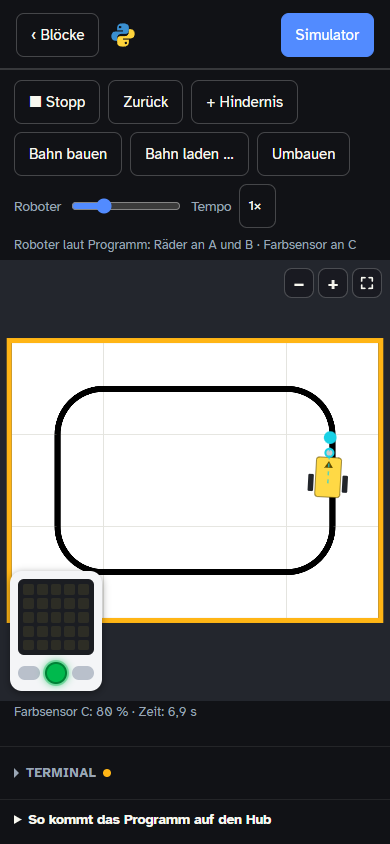
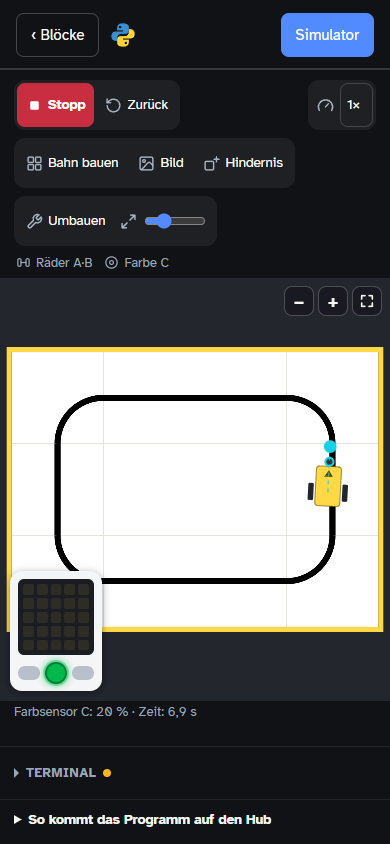
feat(sim): Leiste des Simulators in Gruppen, jeder Knopf mit Zeichen
- Die Knöpfe stehen in vier Gruppen: laufen lassen (Start/Stopp, Zurück,
  Kraftsensor), Tempo, Bahn (Bahn bauen, Bild, Hindernis) und Roboter
  (Umbauen, Größe). Jeder hat ein graues Zeichen vor dem Wort; Start
  wird beim Laufen zum roten Stopp.
- Statt des langen Satzes »Roboter laut Programm: …« stehen kurze
  Schildchen mit Zeichen da (Räder A·B, Farbe C, D, Abstand E …), die
  ausführliche Fassung im Tooltip.
- Auch die Leisten für »Bahn bauen« und »Umbauen« sind so geordnet.
- »Bahn laden …« heißt jetzt »Bild«.

Claude-Session: https://claude.ai/code/session_01PviZb3Q8FPaRScTPKtzbYN

diff --git a/index.html b/index.html
@@ -149,45 +149,83 @@
     <div class="warnings hidden" id="warnings"></div>
     <div class="code-scroll"><div class="code-lines" id="codeLines"></div></div>
     <section class="sim hidden" id="sim" aria-label="Simulator">
+      <!-- Die Leiste des Simulators, in Gruppen: laufen lassen · Tempo · Bahn · Roboter. Jeder Knopf mit Zeichen und Wort. -->
       <div class="sim-bar">
-        <button class="btn primary" id="simRun" type="button">▶ Start</button>
-        <button class="btn" id="simReset" type="button" title="Stellt den Roboter dorthin zurück, wo er beim Start stand">Zurück</button>
-        <button class="btn" id="simObstacle" type="button" title="Hindernis vor den Roboter stellen – Doppelklick räumt es wieder weg">+ Hindernis</button>
-        <button class="btn" id="simTrack" type="button" aria-pressed="false" title="Die Bahn aus Platten zusammenlegen, wie bei RoboCup Junior Rescue Line – mit grünen Punkten an den Kreuzungen">Bahn bauen</button>
-        <button class="btn" id="simImage" type="button" title="Ein Bild der Bahn laden, von oben gesehen">Bahn laden …</button>
-        <button class="btn" id="simBuild" type="button" aria-pressed="false" title="Roboter groß zeigen und seine Sensoren versetzen – mit Raster und Symmetrie">Umbauen</button>
-        <label class="sim-scale" title="Wie groß der Roboter auf der Bahn ist">Roboter <input type="range" id="simScale" min="0.3" max="3" step="0.05" value="1"></label>
-        <label class="sim-scale sim-tempo" title="Zeitlupe und Zeitraffer">Tempo
-          <select class="btn" id="simSpeed"><option value="0.25">¼×</option><option value="0.5">½×</option><option value="1" selected>1×</option><option value="2">2×</option><option value="4">4×</option></select>
+        <div class="sim-group sim-g-run">
+          <button class="btn primary" id="simRun" type="button">
+            <svg class="ico i-play" viewBox="0 0 24 24" aria-hidden="true"><path d="M7 4.5v15l12.500-7.500z" fill="currentColor" stroke="none"/></svg>
+            <svg class="ico i-stop" viewBox="0 0 24 24" aria-hidden="true"><rect x="6" y="6" width="12" height="12" rx="2" fill="currentColor" stroke="none"/></svg>
+            <span>Start</span></button>
+          <button class="btn" id="simReset" type="button" title="Roboter zurück an den Start">
+            <svg class="ico" viewBox="0 0 24 24" aria-hidden="true"><path d="M3 12a9 9 0 1 0 2.600-6.300L3 8"/><path d="M3 3v5h5"/></svg>
+            <span>Zurück</span></button>
+          <!-- je Kraftsensor des Programms ein Knopf zum Drücken (entsteht in view.ts) -->
+          <span class="sim-force" id="simForce"></span>
+        </div>
+        <label class="sim-group sim-g-tempo" title="Tempo: Zeitlupe und Zeitraffer">
+          <svg class="ico" viewBox="0 0 24 24" aria-hidden="true"><path d="M3.300 19a10 10 0 1 1 17.400 0"/><path d="m12 14 4-4.500"/></svg>
+          <select class="btn" id="simSpeed" aria-label="Tempo"><option value="0.25">¼×</option><option value="0.5">½×</option><option value="1" selected>1×</option><option value="2">2×</option><option value="4">4×</option></select>
         </label>
-        <!-- je Kraftsensor des Programms ein Knopf zum Drücken -->
-        <span class="sim-force" id="simForce"></span>
+        <div class="sim-group sim-g-track">
+          <button class="btn" id="simTrack" type="button" aria-pressed="false" title="Bahn aus Platten bauen, wie bei Rescue Line">
+            <svg class="ico" viewBox="0 0 24 24" aria-hidden="true"><rect x="3" y="3" width="7.500" height="7.500" rx="1.500"/><rect x="13.500" y="3" width="7.500" height="7.500" rx="1.500"/><rect x="3" y="13.500" width="7.500" height="7.500" rx="1.500"/><rect x="13.500" y="13.500" width="7.500" height="7.500" rx="1.500"/></svg>
+            <span>Bahn bauen</span></button>
+          <button class="btn" id="simImage" type="button" title="Ein Bild als Bahn laden">
+            <svg class="ico" viewBox="0 0 24 24" aria-hidden="true"><rect x="3" y="3" width="18" height="18" rx="2.500"/><circle cx="8.500" cy="8.500" r="1.800"/><path d="m21 15-4.300-4.300a1.500 1.500 0 0 0-2.100 0L5 20.500"/></svg>
+            <span>Bild</span></button>
+          <button class="btn" id="simObstacle" type="button" title="Hindernis vor den Roboter stellen">
+            <svg class="ico" viewBox="0 0 24 24" aria-hidden="true"><rect x="3" y="9" width="12" height="12" rx="2"/><path d="M19 2.500v7M15.500 6h7"/></svg>
+            <span>Hindernis</span></button>
+        </div>
+        <div class="sim-group sim-g-robot">
+          <button class="btn" id="simBuild" type="button" aria-pressed="false" title="Roboter umbauen: Sensoren versetzen und drehen">
+            <svg class="ico" viewBox="0 0 24 24" aria-hidden="true"><path d="M14.700 6.300a1 1 0 0 0 0 1.400l1.600 1.600a1 1 0 0 0 1.400 0l3.770-3.770a6 6 0 0 1-7.940 7.940l-6.910 6.910a2.120 2.120 0 0 1-3-3l6.910-6.910a6 6 0 0 1 7.940-7.940z"/></svg>
+            <span>Umbauen</span></button>
+          <label class="sim-scale" title="Größe des Roboters auf der Bahn">
+            <svg class="ico" viewBox="0 0 24 24" aria-hidden="true"><path d="M15 3h6v6M9 21H3v-6M21 3l-7 7M3 21l7-7"/></svg>
+            <input type="range" id="simScale" min="0.3" max="3" step="0.05" value="1" aria-label="Größe des Roboters"></label>
+        </div>
         <input type="file" id="simFile" accept="image/*" class="hidden">
       </div>
       <!-- nur bei »Bahn bauen«: Platten zur Auswahl (die Knöpfe entstehen in trackEditor.ts), Größe, Vorlagen, Datei -->
       <div class="sim-bar sim-track-bar">
         <div class="sim-tiles" id="simTiles" role="radiogroup" aria-label="Platte oder Werkzeug wählen"></div>
-        <span class="sim-step" title="Wie viele Platten die Bahn breit ist">Spalten
-          <button class="btn" id="simColsLess" type="button" aria-label="eine Spalte weniger">−</button><output id="simCols">4</output><button class="btn" id="simColsMore" type="button" aria-label="eine Spalte mehr">+</button>
-        </span>
-        <span class="sim-step" title="Wie viele Platten die Bahn hoch ist">Zeilen
-          <button class="btn" id="simRowsLess" type="button" aria-label="eine Zeile weniger">−</button><output id="simRows">3</output><button class="btn" id="simRowsMore" type="button" aria-label="eine Zeile mehr">+</button>
-        </span>
-        <select class="btn" id="simTemplate" aria-label="Vorlage laden"><option value="">Vorlage …</option></select>
-        <button class="btn" id="simTrackSave" type="button" title="Die Bahn als Datei speichern, zum Weitergeben">Speichern</button>
-        <button class="btn" id="simTrackOpen" type="button" title="Eine gespeicherte Bahn öffnen">Öffnen …</button>
+        <div class="sim-group">
+          <span class="sim-step" title="Spalten: wie viele Platten die Bahn breit ist">
+            <svg class="ico" viewBox="0 0 24 24" aria-hidden="true"><path d="M3 12h18M7 8l-4 4 4 4M17 8l4 4-4 4"/></svg>
+            <button class="btn" id="simColsLess" type="button" aria-label="eine Spalte weniger">−</button><output id="simCols">4</output><button class="btn" id="simColsMore" type="button" aria-label="eine Spalte mehr">+</button>
+          </span>
+          <span class="sim-step" title="Zeilen: wie viele Platten die Bahn hoch ist">
+            <svg class="ico" viewBox="0 0 24 24" aria-hidden="true"><path d="M12 3v18M8 7l4-4 4 4M8 17l4 4 4-4"/></svg>
+            <button class="btn" id="simRowsLess" type="button" aria-label="eine Zeile weniger">−</button><output id="simRows">3</output><button class="btn" id="simRowsMore" type="button" aria-label="eine Zeile mehr">+</button>
+          </span>
+        </div>
+        <div class="sim-group">
+          <select class="btn" id="simTemplate" aria-label="Vorlage laden"><option value="">Vorlage …</option></select>
+          <button class="btn" id="simTrackSave" type="button" title="Bahn als Datei speichern">
+            <svg class="ico" viewBox="0 0 24 24" aria-hidden="true"><path d="M12 3v12M7 10l5 5 5-5M4 21h16"/></svg>
+            <span>Speichern</span></button>
+          <button class="btn" id="simTrackOpen" type="button" title="Gespeicherte Bahn öffnen">
+            <svg class="ico" viewBox="0 0 24 24" aria-hidden="true"><path d="M3 7a2 2 0 0 1 2-2h4l2 2.500h8a2 2 0 0 1 2 2V18a2 2 0 0 1-2 2H5a2 2 0 0 1-2-2z"/></svg>
+            <span>Öffnen</span></button>
+        </div>
         <input type="file" id="simTrackFile" accept=".json,application/json" class="hidden">
         <p class="sim-keys sim-track-hint" id="simTrackHint" role="status"></p>
       </div>
       <!-- nur beim Umbauen: Raster (Abstand der LEGO-Noppen) und Symmetrie -->
       <div class="sim-bar sim-build-bar">
-        <label class="sim-check" title="Sensoren rasten im Abstand der LEGO-Noppen ein (8 mm) und drehen in Schritten von 15 Grad"><input type="checkbox" id="simGrid" checked> Raster</label>
-        <label class="sim-check" title="Der Sensor auf der anderen Seite wandert und dreht spiegelbildlich mit"><input type="checkbox" id="simSymmetry" checked> Symmetrie</label>
-        <button class="btn" id="simMountsReset" type="button" title="Setzt alle Sensoren an ihren üblichen Platz zurück, ungedreht">Alle zurücksetzen</button>
+        <div class="sim-group">
+          <label class="sim-check" title="Einrasten: 8 mm (eine Noppe) und 15 Grad"><input type="checkbox" id="simGrid" checked> Raster</label>
+          <label class="sim-check" title="Der Sensor gegenüber wandert und dreht spiegelbildlich mit"><input type="checkbox" id="simSymmetry" checked> Symmetrie</label>
+          <button class="btn" id="simMountsReset" type="button" title="Alle Sensoren zurück an ihren üblichen Platz">
+            <svg class="ico" viewBox="0 0 24 24" aria-hidden="true"><path d="M3 12a9 9 0 1 0 2.600-6.300L3 8"/><path d="M3 3v5h5"/></svg>
+            <span>Zurücksetzen</span></button>
+        </div>
         <!-- nur mit Tastatur: die Zusatztasten, wie in Zeichenprogrammen üblich -->
         <p class="sim-keys"><kbd>Alt</kbd> frei · <kbd>Umschalt</kbd> gerade, 45° · <kbd>Strg</kbd> einzeln · <kbd>R</kbd> dreht</p>
       </div>
-      <p class="sim-info" id="simInfo"></p>
+      <!-- was der Roboter laut Programm hat: je Teil ein Schildchen (entsteht in view.ts) -->
+      <div class="sim-chips" id="simInfo" role="status" aria-label="Roboter laut Programm"></div>
       <div class="sim-stage">
         <canvas id="simCanvas"></canvas>
         <!-- die Bahn heranholen und wieder ganz zeigen (auch: Mausrad, zwei Finger) -->

diff --git a/src/style.css b/src/style.css
@@ -183,46 +183,64 @@ aside.code{color-scheme:dark;flex:0 0 var(--code-w,clamp(330px,38vw,600px));min-
 aside.code.sim-on .code-scroll,aside.code.sim-on .warnings,aside.code.sim-on .code-zoom,aside.code.sim-on #btnCopy{display:none!important}
 .code-head .btn[aria-pressed="true"]{background:var(--accent);border-color:var(--accent);color:#fff}
 .sim{flex:1 1 auto;min-height:0;display:flex;flex-direction:column}
+/* Die Leiste: Knöpfe in Gruppen (laufen lassen · Tempo · Bahn · Roboter), jede Gruppe ein flaches Feld; die
+   Knöpfe darin ohne Rahmen, mit einem grauen Zeichen vor dem Wort. */
 .sim-bar{display:flex;flex-wrap:wrap;align-items:center;gap:8px;padding:10px 14px 6px}
-.sim-bar .btn{background:transparent;border-color:rgba(255,255,255,.22);color:var(--code-ink)}
-.sim-bar .btn:hover{border-color:#fff}
-.sim-bar .btn.primary{background:#00B94D;border-color:#00B94D;color:#fff}
-.sim-scale{display:flex;align-items:center;gap:8px;font-size:13.5px;color:#9AA6B5}
-.sim-scale input{width:110px;accent-color:var(--accent)}
-.sim-bar select.btn{padding:5px 8px;background:var(--code-bg)}
+.sim-group{display:flex;align-items:center;gap:2px;padding:3px;border-radius:11px;background:rgba(255,255,255,.06)}
+.sim-g-tempo{margin-left:auto;padding-left:9px;gap:6px;cursor:pointer}
+.sim-bar .ico{width:17px;height:17px;flex:0 0 auto;fill:none;stroke:currentColor;stroke-width:2;stroke-linecap:round;stroke-linejoin:round;color:#A9B4C3}
+.sim-bar .btn{display:inline-flex;align-items:center;gap:5px;padding:6px 8px;border-radius:8px;border-color:transparent;background:transparent;color:var(--code-ink);font-size:13.5px;line-height:1.2}
+.sim-bar .btn:hover{background:rgba(255,255,255,.11);border-color:transparent}
+.sim-bar .btn:hover .ico{color:#fff}
+.sim-bar .btn.primary{background:#00B94D;color:#fff;font-weight:700}
+.sim-bar .btn.primary:hover{background:#00CC56}
+.sim-bar .btn.primary .ico,.sim-bar .btn[aria-pressed="true"] .ico{color:#fff}
+/* Start und Stopp: derselbe Knopf, das Zeichen wechselt */
+#simRun .i-stop,#simRun.running .i-play{display:none}
+#simRun.running .i-stop{display:block}
+#simRun.running{background:rgba(218,48,65,.9)}
+#simRun.running:hover{background:#DA3041}
+.sim-scale{display:flex;align-items:center;gap:5px;padding:0 6px 0 4px}
+.sim-scale input{width:62px;accent-color:var(--accent)}
+.sim-bar select.btn{padding:5px 6px;background:transparent;border-color:rgba(255,255,255,.16)}
+.sim-bar select.btn option{background:var(--code-bg)}
 .sim.tracking .sim-stage canvas{cursor:pointer}
 .sim-bar .btn[aria-pressed="true"]{background:var(--accent);border-color:var(--accent);color:#fff}
 .sim-force{display:contents}
-.sim-force .btn{border-color:#DA3041}
-.sim-force .btn:active{background:#DA3041}
+.sim-force .btn .ico{color:#FF8A95}
+.sim-force .btn.on,.sim-force .btn:active{background:#DA3041}
+.sim-force .btn.on .ico,.sim-force .btn:active .ico{color:#fff}
 .sim-info{margin:0;padding:2px 14px 6px;font-size:13px;line-height:1.4;color:#9AA6B5;min-height:1.4em}
+/* Was der Roboter laut Programm hat: je Teil ein Schildchen mit Zeichen */
+.sim-chips{display:flex;flex-wrap:wrap;gap:4px 12px;padding:2px 16px 7px;min-height:26px;font-size:13px;color:#9AA6B5}
+.sim-chip{display:inline-flex;align-items:center;gap:5px;white-space:nowrap}
+.sim-chip svg{width:15px;height:15px;flex:0 0 auto;fill:none;stroke:currentColor;stroke-width:2;stroke-linecap:round;stroke-linejoin:round}
+.sim-chip.none,.sim-chip.note{color:#FFB515}
 /* die Messwerte: Platz für zwei Zeilen, damit die Bahn nicht springt, wenn eine Angabe dazukommt */
 #simValues{min-height:calc(2.8em + 8px);font-variant-numeric:tabular-nums}
 /* Umbauen: eine zweite Leiste mit Raster und Symmetrie; was nur zur Bahn gehört, macht Platz */
 .sim-build-bar{display:none;padding-top:0}
 .sim.building .sim-build-bar{display:flex}
-.sim.building #simReset,.sim.building #simObstacle,.sim.building #simImage,.sim.building .sim-tempo,.sim.building .sim-force{display:none}
+.sim.building #simReset,.sim.building .sim-force,.sim.building .sim-g-tempo,.sim.building .sim-g-track{display:none}
 /* Bahn bauen: eine zweite Leiste mit den Platten; was nur zum Fahren und zum Roboter gehört, macht Platz */
 .sim-track-bar{display:none;padding-top:0}
 .sim.tracking .sim-track-bar{display:flex}
-.sim.tracking #simReset,.sim.tracking #simObstacle,.sim.tracking #simImage,.sim.tracking #simBuild,.sim.tracking .sim-scale,.sim.tracking .sim-force,
+.sim.tracking #simReset,.sim.tracking .sim-force,.sim.tracking #simObstacle,.sim.tracking #simImage,.sim.tracking .sim-g-robot,.sim.tracking .sim-g-tempo,
 .sim.tracking #simInfo,.sim.tracking #simValues,.sim.tracking .sim-hub{display:none}
-.sim.building #simTrack,.sim.hub-only #simTrack{display:none}
 .sim-tiles{flex:1 1 100%;display:flex;flex-wrap:wrap;gap:4px}
 .sim-tiles button{flex:0 0 auto;width:36px;height:36px;padding:0;display:grid;place-items:center;border-radius:8px;border:2px solid rgba(255,255,255,.18);background:transparent;cursor:pointer}
 .sim-tiles button:hover{border-color:rgba(255,255,255,.5)}
 .sim-tiles button[aria-checked="true"]{border-color:var(--accent);background:color-mix(in srgb,var(--accent) 28%,transparent)}
 .sim-tiles canvas{display:block;border-radius:5px}
-.sim-step{display:flex;align-items:center;gap:6px;font-size:13.5px;color:#9AA6B5}
-.sim-step .btn{min-width:30px;min-height:30px;padding:3px 0;font-weight:700}
-.sim-track-bar select.btn{max-width:118px}
-.sim-track-bar .btn{padding-top:5px;padding-bottom:5px}
+.sim-step{display:flex;align-items:center;gap:3px;padding:0 4px;font-size:13.5px;color:#9AA6B5}
+.sim-step .btn{min-width:28px;min-height:28px;padding:3px 0;justify-content:center;font-weight:700}
+.sim-track-bar select.btn{max-width:112px}
 .sim-step .btn:disabled{opacity:.4;cursor:default}
 .sim-step output{min-width:1.2em;text-align:center;color:var(--code-ink);font-variant-numeric:tabular-nums}
 /* (der Hinweis zum gewählten Werkzeug gilt auch ohne Tastatur) */
 /* (die Zeile bleibt auch leer stehen – sonst spränge die Bahn unter dem Zeiger, sobald der Hinweis kommt oder geht) */
 .sim-keys.sim-track-hint{display:block;color:#FFB515;min-height:1.7em}
-.sim-check{display:flex;align-items:center;gap:7px;font-size:14px;color:var(--code-ink);cursor:pointer;min-height:32px;padding-right:6px}
+.sim-check{display:flex;align-items:center;gap:7px;font-size:14px;color:var(--code-ink);cursor:pointer;min-height:30px;padding:0 9px}
 .sim-check input{width:18px;height:18px;accent-color:var(--accent)}
 /* die Zusatztasten beim Umbauen – ohne Tastatur (Finger) gibt es sie nicht */
 .sim-keys{flex:1 1 100%;margin:0;font-size:12.5px;line-height:1.7;color:#9AA6B5}
@@ -248,7 +266,7 @@ aside.code.sim-on .code-scroll,aside.code.sim-on .warnings,aside.code.sim-on .co
 .sim-zoom svg{width:16px;height:16px}
 .sim.building .sim-zoom,.sim.hub-only .sim-zoom{display:none}
 /* nur der Hub: groß in der Mitte, die Bahn ist ausgeblendet (Doppelklick auf den Hub) */
-.sim.hub-only .sim-stage canvas,.sim.hub-only #simObstacle,.sim.hub-only #simImage,.sim.hub-only .sim-scale,.sim.hub-only #simReset,.sim.hub-only #simBuild,.sim.hub-only .sim-tempo{display:none}
+.sim.hub-only .sim-stage canvas,.sim.hub-only #simReset,.sim.hub-only .sim-g-track,.sim.hub-only .sim-g-robot,.sim.hub-only .sim-g-tempo{display:none}
 .sim.hub-only .sim-hub{left:50%;top:50%;bottom:auto;transform:translate(-50%,-50%);width:min(70%,300px,calc((100cqh - 20px) * .72));padding:18px;border-radius:26px}
 .sim.hub-only .sim-stage{container-type:size}
 .sim.hub-only .sim-matrix{gap:8px;padding:14px;border-radius:10px}

diff --git a/src/sim/view.ts b/src/sim/view.ts
@@ -9,7 +9,7 @@
 // ---------------------------------------------------------------
 import type * as Blockly from 'blockly';
 import { ANGLE_STEP, ANGLE_STEP_COARSE, GRID_MM, mirrorPartner, MOUNT_AREA, mountsFor, placeSensor, rotateSensor, saveMounts, type BuildOptions, type Mount, type SavedMounts } from './build';
-import { BODY, BUMPER, COLOR_SPOT, defaultMounts, describeRobot, robotFromWorkspace, ULTRA } from './robot';
+import { BODY, BUMPER, COLOR_SPOT, defaultMounts, robotFromWorkspace, robotParts, ULTRA, type RobotPart } from './robot';
 import { Runner } from './runner';
 import { FENCES, Simulation, type Fence } from './simulation';
 import { cellAt, mapSize, readTileMap, startPose, TEMPLATES, TILE_MM, type TileMap } from './tiles';
@@ -60,6 +60,17 @@ const FENCE_LOOK: Record<Fence, {color: string; name: string}> = {
   hidden:{color:'#FFD945', name:'Rand: kein Sensor'},
   off:{color:'rgba(255,255,255,.4)', name:'Kein Rand'}
 };
+/** Die Zeichen vor den Schildchen über der Bahn: Räder, Farbsensor, Abstandssensor, Kraftsensor, Motor, Hinweis. */
+const svg = (paths: string) => `<svg viewBox="0 0 24 24" class="ico" aria-hidden="true">${paths}</svg>`;
+const PART_ICONS: Record<RobotPart['kind'], string> = {
+  wheels:svg('<rect x="3" y="6" width="5" height="12" rx="2"/><rect x="16" y="6" width="5" height="12" rx="2"/><path d="M8 12h8"/>'),
+  none:svg('<circle cx="12" cy="12" r="9"/><path d="M6 6l12 12"/>'),
+  color:svg('<circle cx="12" cy="12" r="9"/><circle cx="12" cy="12" r="3"/>'),
+  ultra:svg('<circle cx="5" cy="12" r="2"/><path d="M11 8a6 6 0 0 1 0 8M15 5a10 10 0 0 1 0 14"/>'),
+  force:svg('<path d="M12 3v8M8 8l4 4 4-4"/><rect x="5" y="16" width="14" height="5" rx="2"/>'),
+  motor:svg('<circle cx="12" cy="12" r="8"/><path d="M12 12l4-4"/>'),
+  note:svg('<path d="M12 4 2.500 20h19z"/><path d="M12 10v4M12 17v.5"/>')
+};
 /** Farben, die der Farbsensor beim Namen nennt – neben der Reflexion steht, wenn er eine davon sieht (ein grüner Punkt, die rote Ziellinie). */
 const SEEN: Record<string, string> = {GREEN:'Grün', RED:'Rot', BLUE:'Blau', YELLOW:'Gelb'};
 /** Geschütztes Leerzeichen: hält Zahl und Einheit in einer Zeile zusammen. */
@@ -91,6 +102,8 @@ export function initSimView(root: HTMLElement, opts: SimViewOptions): SimView {
   const btnRun = el<HTMLButtonElement>('simRun'), info = el('simInfo'), values = el('simValues');
   const scaleInput = el<HTMLInputElement>('simScale'), fileInput = el<HTMLInputElement>('simFile');
   const gridInput = el<HTMLInputElement>('simGrid'), symmetryInput = el<HTMLInputElement>('simSymmetry');
+  /** Das Wort auf einem Knopf der Leiste – sein Zeichen davor bleibt stehen. */
+  const label = (button: HTMLElement, text: string) => { button.querySelector('span')!.textContent = text; };
   /** Mit dem Finger trifft man weniger genau: Die Anfasser sind dann großzügiger. */
   const reach = matchMedia('(pointer:coarse)').matches ? 1.7 : 1;
 
@@ -469,9 +482,23 @@ export function initSimView(root: HTMLElement, opts: SimViewOptions): SimView {
     forceShown = ports; forceBox.textContent = ''; sim.forceHeld.clear();
     for (const port of sim.robot.force){
       const button = document.createElement('button');
-      button.type = 'button'; button.className = 'btn'; button.textContent = 'Kraftsensor ' + port; button.title = 'Gedrückt halten: drückt den Kraftsensor';
+      button.type = 'button'; button.className = 'btn'; button.title = 'Kraftsensor drücken (halten)';
+      button.innerHTML = PART_ICONS.force; button.append(Object.assign(document.createElement('span'), {textContent:'Kraftsensor ' + port}));
       holdButton(button, (down) => { if (down) sim.forceHeld.add(port); else sim.forceHeld.delete(port); draw(); });
       forceBox.appendChild(button);
+    }
+  }
+  /** Über der Bahn: je Teil des Roboters ein Schildchen mit Zeichen (ausführlich im Tooltip). */
+  let shownParts = '';
+  function partChips(){
+    const parts = robotParts(sim.robot), key = JSON.stringify(parts);
+    if (key === shownParts) return;
+    shownParts = key; info.textContent = '';
+    for (const part of parts){
+      const chip = document.createElement('span');
+      chip.className = 'sim-chip ' + part.kind; chip.title = part.title;
+      chip.innerHTML = PART_ICONS[part.kind]; chip.append(part.text);
+      info.appendChild(chip);
     }
   }
   function readRobot(){
@@ -481,7 +508,7 @@ export function initSimView(root: HTMLElement, opts: SimViewOptions): SimView {
     sim.mounts = mountsFor(sim.robot, saved);
     if (selected && !sensorPorts().includes(selected)) selected = null;
     forceButtons();
-    info.textContent = 'Roboter laut Programm: ' + describeRobot(sim.robot) + (sim.robot.notes.length ? ' – ' + sim.robot.notes.join(' ') : '');
+    partChips();
     draw();
   }
 
@@ -492,7 +519,7 @@ export function initSimView(root: HTMLElement, opts: SimViewOptions): SimView {
     building = on; drag = null; selected = null;
     root.classList.toggle('building', on);
     btnBuild.setAttribute('aria-pressed', String(on));
-    btnBuild.textContent = on ? 'Fertig' : 'Umbauen';
+    label(btnBuild, on ? 'Fertig' : 'Umbauen');
     layout();
   }
   btnBuild.addEventListener('click', () => {
@@ -512,7 +539,7 @@ export function initSimView(root: HTMLElement, opts: SimViewOptions): SimView {
     editing = on; drag = null; hover = null;
     root.classList.toggle('tracking', on);
     btnTrack.setAttribute('aria-pressed', String(on));
-    btnTrack.textContent = on ? 'Fertig' : 'Bahn bauen';
+    label(btnTrack, on ? 'Fertig' : 'Bahn bauen');
     // diente gerade ein eigenes Bild als Bahn, kommt jetzt wieder die aus Platten
     if (on && usingImage) changeMap(tileMap, true); else layout();
   }
@@ -524,7 +551,7 @@ export function initSimView(root: HTMLElement, opts: SimViewOptions): SimView {
     runner = null;
     mine.stop();
     opts.ws.highlightBlock(null);
-    btnRun.textContent = '▶ Start'; btnRun.classList.add('primary');
+    label(btnRun, 'Start'); btnRun.classList.remove('running');
     if (mine.ignored.size) opts.print('→ Der Simulator hat Blöcke übersprungen, die er nicht nachbilden kann (Erweiterungen, Xbox-Controller, Fernbedienung).\n', 't-hint');
     if (message) opts.print(message + '\n', 't-info');
     readRobot();
@@ -546,7 +573,7 @@ export function initSimView(root: HTMLElement, opts: SimViewOptions): SimView {
         opts.toast('Fehler im Programm – siehe Terminal.');
       }
     });
-    btnRun.textContent = '■ Stopp'; btnRun.classList.remove('primary');
+    label(btnRun, 'Stopp'); btnRun.classList.add('running');
     activeBlock = null;
     opts.print('— Simulation gestartet —\n', 't-info');
     opts.onStart();

diff --git a/tests/sim.test.ts b/tests/sim.test.ts
@@ -5,7 +5,7 @@ import { at, B, cmp, EXAMPLES, S, seq, setup, ws_, type WorkspaceState } from '.
 import { N, T } from '../src/toolbox';
 import { mirrorPartner, MOUNT_AREA, mountsFor, placeSensor, rotateSensor, saveMounts } from '../src/sim/build';
 import { charPixels, iconPixels, numberPixels } from '../src/sim/hubDisplay';
-import { colorSensorPoints, defaultMounts, describeRobot, robotFromWorkspace, type SimRobot } from '../src/sim/robot';
+import { colorSensorPoints, defaultMounts, describeRobot, robotFromWorkspace, robotParts, type SimRobot } from '../src/sim/robot';
 import { Runner } from '../src/sim/runner';
 import { Simulation } from '../src/sim/simulation';
 import { colorAt, coneDistance, reflectionAt, type Obstacle, type Track } from '../src/sim/world';
@@ -45,6 +45,17 @@ describe('Roboter aus dem Programm', () => {
     expect(robotOf(EXAMPLES.linie())).toMatchObject({drive:{left:'A', right:'B', wheel:56, axle:112}, colors:['C'], ultra:null});
     expect(robotOf(EXAMPLES.wand())).toMatchObject({ultra:'D', force:['E'], colors:[]});
     expect(describeRobot(robotOf(EXAMPLES.wand()))).toBe('Räder an A und B · Abstandssensor an D · Kraftsensor an E');
+  });
+  it('die Übersicht über der Bahn: je Teil ein kurzes Schildchen, ausführlich im Tooltip', () => {
+    expect(robotParts(robotOf(EXAMPLES.wand()))).toEqual([
+      {kind:'wheels', text:'Räder A·B', title:'Fahrbasis: Räder an A und B'},
+      {kind:'ultra', text:'Abstand D', title:'Abstandssensor an D'},
+      {kind:'force', text:'Kraft E', title:'Kraftsensor an E'}]);
+    expect(robotParts(robotOf(EXAMPLES.motor())).map(p => p.text)).toEqual(['keine Räder', 'Motor C']);
+    // zwei einzelne Motoren als Räder: Im Tooltip steht, dass der linke gespiegelt sitzt
+    const direct = robotParts(robotOf(program(B('pb_motor_run', {PORT:'A'}, {SPEED:N(1)}), B('pb_motor_run', {PORT:'B'}, {SPEED:N(1)}), B('pb_print', null, {TEXT:{block:B('pb_reflection', {PORT:'C'})}}))));
+    expect(direct.map(p => p.text)).toEqual(['Räder A·B', 'Farbe C']);
+    expect(direct[0].title).toContain('gespiegelt');
   });
   it('ohne Fahrblöcke gibt es keine Räder', () => {
     const robot = robotOf(EXAMPLES.motor());

diff --git a/src/sim/robot.ts b/src/sim/robot.ts
@@ -73,6 +73,22 @@ export function describeRobot(robot: SimRobot): string {
   return parts.join(' · ');
 }
 
+/** Ein Teil des Roboters für die Übersicht über der Bahn: ein kurzes Schildchen, ausführlich im Tooltip. */
+export interface RobotPart { kind: 'wheels' | 'none' | 'color' | 'ultra' | 'force' | 'motor' | 'note'; text: string; title: string }
+/** Was der Roboter laut Programm hat, Teil für Teil. */
+export function robotParts(robot: SimRobot): RobotPart[] {
+  const d = robot.drive, parts: RobotPart[] = [];
+  if (!d) parts.push({kind:'none', text:'keine Räder', title:'Das Programm benutzt weder Fahrblöcke noch zwei Motoren: Der Roboter bleibt stehen.'});
+  else parts.push({kind:'wheels', text:`Räder ${d.left}·${d.right}`,
+    title:d.direct ? `Räder an den Motoren ${d.left} (links, gespiegelt eingebaut) und ${d.right} (rechts)` : `Fahrbasis: Räder an ${d.left} und ${d.right}`});
+  if (robot.colors.length) parts.push({kind:'color', text:`Farbe ${robot.colors.join(', ')}`, title:`Farbsensor an ${robot.colors.join(', ')}`});
+  if (robot.ultra) parts.push({kind:'ultra', text:`Abstand ${robot.ultra}`, title:`Abstandssensor an ${robot.ultra}`});
+  if (robot.force.length) parts.push({kind:'force', text:`Kraft ${robot.force.join(', ')}`, title:`Kraftsensor an ${robot.force.join(', ')}`});
+  if (robot.motors.length) parts.push({kind:'motor', text:`Motor ${robot.motors.join(', ')}`, title:`Einzelner Motor an ${robot.motors.join(', ')}`});
+  for (const note of robot.notes) parts.push({kind:'note', text:'Hinweis', title:note});
+  return parts;
+}
+
 // Maße am Roboter in Millimetern: x nach vorn, y nach rechts, der Ursprung liegt mitten zwischen den Rädern
 /** Der Körper (der Hub mit dem Rahmen darum). */
 export const BODY = {back:-45, front:85, minWidth:60};

diff --git a/CHANGELOG.md b/CHANGELOG.md
@@ -31,8 +31,8 @@ Programmen (und einem Git-Tag wie `v0.26.0`) fasst dann zusammen, was seit dem v
     sie. An Abzweig, Kreuzung und Kreisel kommen **grüne Punkte** neben die Linie, die der
     Farbsensor als Grün sieht. Zwei bis acht Platten breit, zwei bis sechs hoch; es gibt Vorlagen, und die Bahn lässt
     sich als Datei speichern und weitergeben. Am Anfang liegt ein Rundkurs.
-  - **Eigenes Bild und Hindernisse:** »Bahn laden …« nimmt stattdessen ein eigenes Bild; wie groß
-    der Roboter darauf ist, stellt ein Regler ein. Hindernisse lassen sich setzen, ziehen und in
+  - **Eigenes Bild und Hindernisse:** »Bild« nimmt stattdessen ein eigenes Bild; wie groß der
+    Roboter darauf ist, stellt ein Regler ein. Hindernisse lassen sich setzen, ziehen und in
     der Größe ändern. Der Abstandssensor sieht, was in seinem Kegel liegt, der Kraftsensor drückt
     am Hindernis oder per Knopf. Neben der Reflexion steht, wenn der Farbsensor Grün, Rot, Blau
     oder Gelb sieht.
@@ -50,6 +50,9 @@ Programmen (und einem Git-Tag wie `v0.26.0`) fasst dann zusammen, was seit dem v
     spiegelbildlich. Mit Tastatur: Alt ohne Einrasten, Umschalt nur eine Richtung (beim Drehen
     45 Grad), Strg ohne Spiegeln, R dreht, die Pfeiltasten versetzen. Die Plätze bleiben gemerkt
     und gelten für genau die Sensoren, für die sie eingestellt wurden.
+  - **Die Leiste** ist in Gruppen geordnet – laufen lassen, Tempo, Bahn, Roboter –, jeder Knopf mit
+    einem Zeichen. Was der Roboter laut Programm hat, steht darunter als kurze Schildchen (Räder,
+    Farbe, Abstand, Kraft, Motor); ausführlich im Tooltip.
   - **Grenzen:** Der Simulator führt die Blöcke aus, nicht den Python-Code; Blöcke aus
     Erweiterungen, Xbox-Controller und LEGO-Fernbedienung überspringt er. Er taugt für die Logik
     eines Programms, nicht zum Feinabstimmen eines Reglers – der Roboter fährt ohne Anlauf und

diff --git a/README.md b/README.md
@@ -230,8 +230,8 @@ dran ist, ist markiert, Ausgaben stehen im Terminal.
   Farbsensor sieht dort Grün und an der Ziellinie Rot. Die Bahn darf zwei bis acht Platten breit und zwei bis sechs hoch
   sein; es gibt Vorlagen, und sie lässt sich als Datei speichern und weitergeben. Sie bleibt
   gemerkt, samt Hindernissen und dem Platz des Roboters.
-- **Ein eigenes Bild** geht auch: »Bahn laden …« nimmt ein Foto oder eine Zeichnung von oben. Der
-  Regler »Roboter« stellt ein, wie groß der Roboter darauf ist.
+- **Ein eigenes Bild** geht auch: »Bild« nimmt ein Foto oder eine Zeichnung von oben. Der Regler
+  neben »Umbauen« stellt ein, wie groß der Roboter darauf ist.
 - **Roboter und Hindernisse** lassen sich ziehen, der Roboter am Punkt vor ihm drehen, ein
   Hindernis an seiner Ecke größer und kleiner ziehen; ein Doppelklick räumt es weg.
 - **Der Rand** um die Bahn hält den Roboter auf: Er fährt dagegen und steht an. Ein Klick auf den
